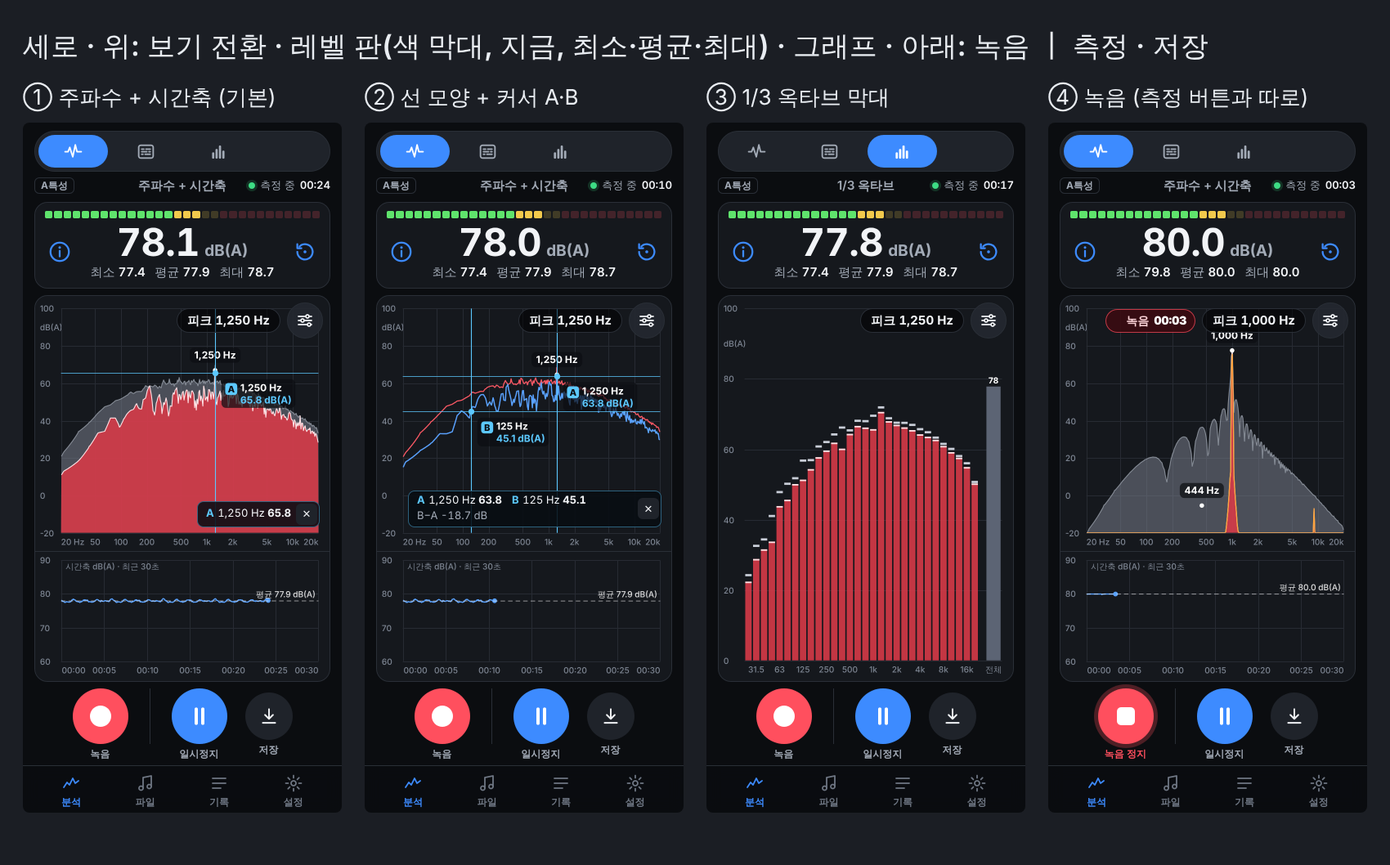
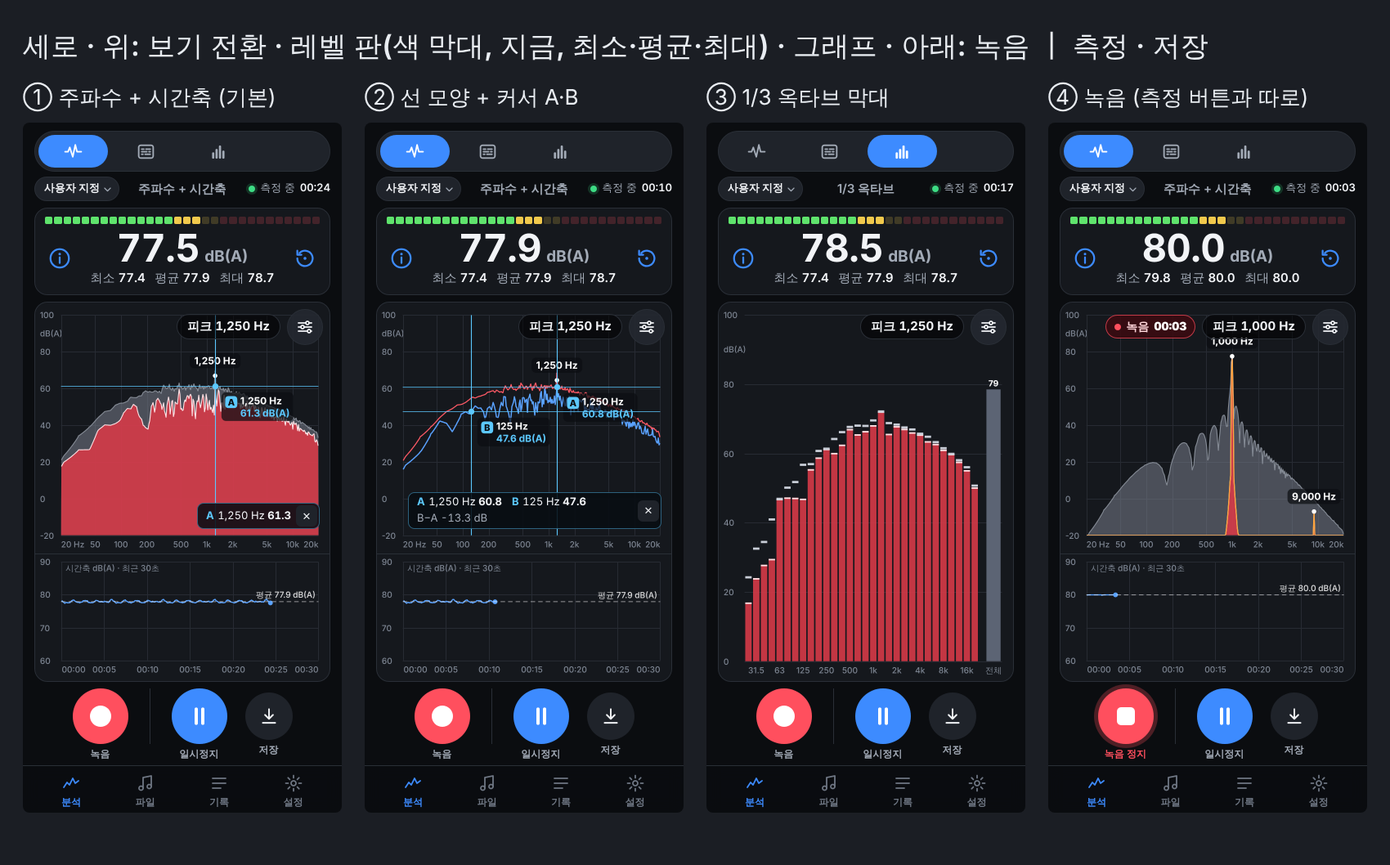
Add measurement situations: 공회전 / 주행 / 실내 / 사용자 지정
- A "측정 상황 ⌄" button (the reference app's "사용자 지정 ⌄") under the mode bar
  opens a menu of situations; one choice sets the weighting, FFT size, chart
  style, axis, the four tracking / hold curves and the time-axis length:
  공회전 (FFT 16384, line, peak + minimum hold, 1 min), 주행 (FFT 4096, fill,
  peak hold + max tracking, 5 min), 실내 (FFT 8192, line, minimum hold + min
  tracking, 1 min).
- 사용자 지정 is the user's own mix: kept when a situation is chosen and restored
  when 사용자 지정 is chosen again. Changing a setting by hand (chart menu,
  settings sheet, file screen) turns a chosen situation into 사용자 지정.
- presets.js holds the rules as pure functions (unit-tested); the analyzer now
  applies every settings change through one applyLive() path.
- The weighting chip is replaced by the situation button (the unit shows the
  weighting). e2e picks situations, changes one by hand and restores 사용자 지정.
  Version 0.9.0.

Claude-Session: https://claude.ai/code/session_019bnsVk5WHx5aXZAwj9JYTg

diff --git a/js/app.js b/js/app.js
@@ -2,6 +2,7 @@
 // #/ (real-time analyzer), #/file (analyse an attached file), #/history, #/record/<id>, #/settings
 
 import { APP_VERSION, getSettings, saveSettings, rememberVehicle } from './settings.js';
+import { PRESETS, CUSTOM, presetOf, choosePreset, customize } from './presets.js';
 import { Meter, FFT_SIZES, MAX_RECORD_SEC } from './meter.js';
 import { findPeaks, logGrid, rangeIndex, reduceRanges, unitOf, WEIGHTINGS, BANDS, bandIndex, bandLevels, newHolds, updateHolds } from './dsp.js';
 import * as store from './store.js';
@@ -30,6 +31,7 @@ const ICON = {
   mic: svg('<rect x="9" y="3" width="6" height="11" rx="3"/><path d="M5.5 11a6.5 6.5 0 0 0 13 0M12 17.5V21M8.5 21h7"/>'),
   file: svg('<path d="M9 18V5l10-2v13"/><circle cx="6.5" cy="18" r="2.5"/><circle cx="16.5" cy="16" r="2.5"/>'),
   info: svg('<circle cx="12" cy="12" r="9"/><path d="M12 11v5.5"/><circle class="fill" cx="12" cy="7.8" r="1.2"/>'),
+  chevron: svg('<path d="M7 10l5 5 5-5"/>'),
   sliders: svg('<path d="M4 7h9M17 7h3M4 12h3M11 12h9M4 17h11M19 17h1"/><circle cx="15" cy="7" r="2"/><circle cx="9" cy="12" r="2"/><circle cx="17" cy="17" r="2"/>'),
 };
 
@@ -98,11 +100,11 @@ function openSheet(html) {
 }
 
 // Small menu that drops from a button (like a phone's context menu). Tapping outside or Esc closes it.
-function openMenu(anchor, html, onClose = null) {
+function openMenu(anchor, html, onClose = null, className = '') {
   const layer = document.createElement('div');
   layer.className = 'menu-layer';
   const menu = document.createElement('div');
-  menu.className = 'menu';
+  menu.className = `menu ${className}`.trim();
   menu.setAttribute('role', 'menu');
   menu.innerHTML = html;
   document.body.append(layer, menu);
@@ -123,6 +125,11 @@ function openMenu(anchor, html, onClose = null) {
   layer.addEventListener('click', close); // the whole tap lands on the layer, not on what is under it
   anchor.setAttribute('aria-expanded', 'true');
   return { menu, close };
+}
+
+// A setting changed by hand: a chosen measurement situation (presets.js) becomes 사용자 지정.
+function changeSettings(patch) {
+  return saveSettings(customize(getSettings(), patch));
 }
 
 async function keepScreenOn() {
@@ -263,6 +270,7 @@ function helpSheet() {
     <div class="sheet-form help">
       <h2>화면 보는 법</h2>
       <dl class="meta">
+        <dt>측정 상황</dt><dd>왼쪽 위 버튼. <b>공회전</b>·<b>주행</b>·<b>실내</b>를 고르면 가중치·FFT·그래프 모양·추적·홀드·시간축 길이가 그 상황에 맞게 한 번에 바뀝니다. 그 뒤에 직접 바꾸면 <b>사용자 지정</b>이 되고, 사용자 지정을 다시 고르면 직접 맞춰 둔 설정으로 돌아옵니다.</dd>
         <dt>큰 숫자</dt><dd>지금 소음 크기입니다 (0.125초 Fast). 색 막대는 초록 → 노랑 → 빨강, 빨강은 경고 기준 ${s.alertLevel} dB 이상입니다. 밝은 칸 하나는 최대값입니다.</dd>
         <dt>최소·평균·최대</dt><dd>측정을 시작하거나 ↻ 초기화를 누른 뒤의 값입니다. 평균은 에너지 평균(Leq)입니다.</dd>
         <dt>A · C · Z</dt><dd>주파수 가중치. <b>A</b> 보통 소음(사람 귀에 가깝게) · <b>C</b> 엔진·부밍음처럼 저음이 큰 소리 · <b>Z</b> 거르지 않은 소리. 그래프 오른쪽 위 설정 버튼에서 바꿉니다.</dd>
@@ -288,7 +296,7 @@ async function renderAnalyzer() {
         ${MODES.map((m) => `<button type="button" class="mode" data-mode="${m.id}" aria-label="${m.label}" aria-pressed="${s.view === m.id}">${m.icon}</button>`).join('')}
       </div>
       <div class="an-sub">
-        <span class="an-weight" id="a-weight">${s.weighting}특성</span>
+        <button type="button" class="an-preset" id="a-preset" aria-haspopup="menu" aria-expanded="false" aria-label="측정 상황: ${presetOf(s.preset).name}"><span>${presetOf(s.preset).name}</span>${ICON.chevron}</button>
         <p class="an-mode-name" id="a-mode-name">${MODES.find((m) => m.id === s.view)?.name || ''}</p>
         <p class="an-status"><i class="rec-dot"></i><span id="a-state">대기</span><b id="a-time">00:00</b></p>
       </div>
@@ -665,26 +673,59 @@ async function renderAnalyzer() {
         <button type="button" class="btn btn-wide" data-close>닫기</button>
       </div>`);
     bindSegs(dlg, (key, v) => {
-      if (key === 'weighting') {
-        saveSettings({ weighting: v });
-        dlg.querySelector('#f-weight-note').textContent = WEIGHT_NOTE[v];
-        $('a-weight').textContent = `${v}특성`;
-        $('a-unit').textContent = unitOf(v);
-        gram.unit = unitOf(v);
-        if (meter) meter.setWeighting(v);
-        clearReadings();
-      } else if (key === 'trace') {
-        saveSettings({ traceSec: Number(v) });
-        trace.configure({ windowSec: Number(v) });
-        trace.draw();
-      } else if (key === 'fft') {
-        saveSettings({ fftSize: Number(v) });
-        applyFft();
-      } else {
-        saveSettings({ scale: v });
-        gram.configure({ scale: v });
-      }
-      if (meter?.paused && holds) draw(meter.levels);
+      change(key === 'weighting' ? { weighting: v } : key === 'trace' ? { traceSec: Number(v) } : key === 'fft' ? { fftSize: Number(v) } : { scale: v });
+      if (key === 'weighting') dlg.querySelector('#f-weight-note').textContent = WEIGHT_NOTE[v];
+    });
+  }
+
+  // Settings changed (by hand, from a menu, or by a measurement situation): the live view follows.
+  function applyLive(prev) {
+    const st = getSettings();
+    if (st.weighting !== prev.weighting) {
+      $('a-unit').textContent = unitOf(st.weighting);
+      gram.unit = unitOf(st.weighting);
+      if (meter) meter.setWeighting(st.weighting);
+      clearReadings();
+    }
+    if (st.fftSize !== prev.fftSize) applyFft();
+    if (st.scale !== prev.scale) gram.configure({ scale: st.scale });
+    if (st.traceSec !== prev.traceSec) {
+      trace.configure({ windowSec: st.traceSec || 30 });
+      trace.draw();
+    }
+    const p = presetOf(st.preset);
+    $('a-preset').firstElementChild.textContent = p.name;
+    $('a-preset').setAttribute('aria-label', `측정 상황: ${p.name}`);
+    if (meter?.paused && holds) draw(meter.levels);
+  }
+
+  function change(patch) {
+    const prev = getSettings();
+    changeSettings(patch);
+    applyLive(prev);
+  }
+
+  // "측정 상황" (the reference app's "사용자 지정 ⌄"): one choice sets several settings at once.
+  function presetMenu() {
+    if (menu) return menu.close();
+    const st = getSettings();
+    menu = openMenu(
+      $('a-preset'),
+      `<div class="menu-group"><p class="menu-head">측정 상황</p>
+        ${[...PRESETS, CUSTOM].map((p) => `<button type="button" role="menuitemradio" aria-checked="${st.preset === p.id}" data-preset="${p.id}"><span class="mi-text">${p.name}<small>${p.note}</small></span></button>`).join('')}
+      </div>
+      <p class="menu-foot">고른 뒤에 설정을 직접 바꾸면 '사용자 지정'이 됩니다.</p>`,
+      () => (menu = null),
+      'menu-preset',
+    );
+    menu.menu.addEventListener('click', (e) => {
+      const b = e.target.closest('[data-preset]');
+      if (!b) return;
+      const prev = getSettings();
+      saveSettings(choosePreset(prev, b.dataset.preset));
+      menu.close();
+      applyLive(prev);
+      toast(`측정 상황: ${presetOf(b.dataset.preset).name}`);
     });
   }
 
@@ -709,12 +750,12 @@ async function renderAnalyzer() {
           <button type="button" role="menuitem" data-act="more">${ICON.sliders}가중치 · 시간축 · FFT · 축</button>
         </div>`;
     };
-    menu = openMenu(anchor, html(), () => (menu = null));
+    menu = openMenu(anchor, html(), () => (menu = null), 'menu-chart');
     menu.menu.addEventListener('click', (e) => {
       const b = e.target.closest('button');
       if (!b) return;
-      if (b.dataset.style) saveSettings({ style: b.dataset.style });
-      else if (b.dataset.toggle) saveSettings({ [b.dataset.toggle]: !getSettings()[b.dataset.toggle] });
+      if (b.dataset.style) change({ style: b.dataset.style });
+      else if (b.dataset.toggle) change({ [b.dataset.toggle]: !getSettings()[b.dataset.toggle] });
       else if (b.dataset.act === 'hold-reset') {
         resetHolds();
         menu.close();
@@ -771,6 +812,7 @@ async function renderAnalyzer() {
   };
   view.querySelector('[data-act=help]').onclick = helpSheet;
   view.querySelector('[data-act=chart-settings]').onclick = chartMenu;
+  $('a-preset').onclick = presetMenu;
   view.querySelectorAll('.mode').forEach((b) => (b.onclick = () => setMode(b.dataset.mode)));
 
   if ((await micPermission()) === 'granted') startMic();
@@ -957,18 +999,18 @@ async function renderFile() {
         const st2 = getSettings();
         if (b.dataset.opt === 'unit' || b.dataset.opt === 'weighting') {
           if (b.dataset.opt === 'unit') saveSettings({ fileUnit: st2.fileUnit === 'fs' ? 'cal' : 'fs' });
-          else saveSettings({ weighting: WEIGHTINGS[(WEIGHTINGS.indexOf(st2.weighting) + 1) % WEIGHTINGS.length] });
+          else changeSettings({ weighting: WEIGHTINGS[(WEIGHTINGS.indexOf(st2.weighting) + 1) % WEIGHTINGS.length] });
           teardown?.();
           teardown = await showAnalysis(file, decoded);
           return;
         }
         if (b.dataset.opt === 'style') {
           const style = STYLE_ORDER[(STYLE_ORDER.indexOf(st2.style) + 1) % STYLE_ORDER.length];
-          saveSettings({ style });
+          changeSettings({ style });
           b.querySelector('b').textContent = STYLE_NAME[style];
         } else {
           const scale = st2.scale === 'log' ? 'linear' : 'log';
-          saveSettings({ scale });
+          changeSettings({ scale });
           b.querySelector('b').textContent = scale === 'log' ? '로그' : '선형';
           gram.configure({ scale });
         }

diff --git a/css/app.css b/css/app.css
@@ -111,7 +111,10 @@ body[data-view="home"] main { flex: 1 1 auto; min-height: 0; display: flex; padd
 .mode[aria-pressed="true"] { background: var(--accent); color: var(--accent-ink); }
 
 .an-sub { grid-area: sub; display: grid; grid-template-columns: minmax(0, 1fr) auto minmax(0, 1fr); align-items: center; gap: 8px; margin-top: -2px; }
-.an-weight { justify-self: start; padding: 0 7px; border: 1px solid var(--line); border-radius: 6px; font-size: 12px; font-weight: 700; color: var(--ink-2); }
+.an-preset { justify-self: start; display: inline-flex; align-items: center; gap: 1px; min-width: 0; min-height: 30px; padding: 0 5px 0 11px; border: 1px solid var(--line); border-radius: 999px; background: var(--panel-2); color: var(--ink); font: inherit; font-size: 13px; font-weight: 700; white-space: nowrap; cursor: pointer; }
+.an-preset span { overflow: hidden; text-overflow: ellipsis; }
+.an-preset svg { flex-shrink: 0; width: 17px; height: 17px; color: var(--ink-2); }
+.an-preset[aria-expanded="true"] { border-color: var(--accent); }
 .an-mode-name { font-size: 15px; font-weight: 600; color: var(--ink-2); text-align: center; }
 .an-status { justify-self: end; display: flex; align-items: center; gap: 6px; font-size: 13px; color: var(--ink-2); white-space: nowrap; }
 .an-status b { font-weight: 600; color: var(--ink); font-variant-numeric: tabular-nums; }
@@ -286,7 +289,8 @@ body[data-view="home"] main { flex: 1 1 auto; min-height: 0; display: flex; padd
   .mode { height: 38px; }
   .mode svg { width: 23px; height: 23px; }
   /* the status line sits in the top row of the floating level panel */
-  .an-sub { grid-area: chart; align-self: start; justify-self: start; z-index: 5; display: flex; gap: 10px; margin: 15px 0 0 54px; pointer-events: none; }
+  .an-sub { grid-area: chart; align-self: start; justify-self: start; z-index: 5; display: flex; align-items: center; gap: 10px; margin: 13px 0 0 52px; pointer-events: none; }
+  .an-preset { pointer-events: auto; min-height: 28px; }
   .an-mode-name { display: none; }
   .an-level {
     grid-area: chart;
@@ -295,7 +299,7 @@ body[data-view="home"] main { flex: 1 1 auto; min-height: 0; display: flex; padd
     z-index: 4;
     width: clamp(290px, 44%, 330px);
     margin: 8px 0 0 40px;
-    padding: 34px 4px 6px;
+    padding: 40px 4px 6px;
     grid-template-columns: 38px minmax(0, 1fr) 38px;
     column-gap: 2px;
     background: rgb(21 24 29 / 82%);
@@ -686,10 +690,14 @@ select {
 .menu button .sw { margin-left: auto; }
 .menu [role="menuitem"] svg { position: absolute; left: 13px; width: 21px; height: 21px; color: var(--accent); }
 /* phone on its side: styles and curves side by side */
+/* measurement situations: name with a short line about what it sets */
+.mi-text { display: grid; gap: 1px; padding: 7px 0; }
+.mi-text small { max-width: 270px; font-size: 12px; font-weight: 500; line-height: 1.35; color: var(--ink-3); white-space: normal; }
+.menu-foot { margin-top: 6px; padding: 8px 16px 4px; border-top: 1px solid var(--line); font-size: 12px; color: var(--ink-3); max-width: 330px; }
 @media (orientation: landscape) and (max-height: 520px) {
-  .menu { display: grid; grid-template-columns: auto auto; }
-  .menu-group + .menu-group { border-top: 0; margin-top: 0; padding-top: 0; }
-  .menu-group:nth-child(2) { border-left: 1px solid var(--line); }
+  .menu-chart { display: grid; grid-template-columns: auto auto; }
+  .menu-chart .menu-group + .menu-group { border-top: 0; margin-top: 0; padding-top: 0; }
+  .menu-chart .menu-group:nth-child(2) { border-left: 1px solid var(--line); }
   .menu-wide { grid-column: 1 / -1; display: grid; grid-template-columns: 1fr 1fr; border-top: 1px solid var(--line); margin-top: 6px; padding-top: 6px; }
   .menu button { min-height: 40px; }
 }

diff --git a/js/presets.js b/js/presets.js
@@ -1,0 +1,48 @@
+// Measurement situations ("측정 상황"): one choice sets the weighting, FFT size, chart style, curves and
+// time-axis length together. "사용자 지정" keeps the user's own mix: it is remembered when another
+// situation is chosen and comes back when 사용자 지정 is chosen again. Changing any of these settings by
+// hand while a situation is chosen turns it into 사용자 지정. Pure functions over a settings object.
+
+export const PRESET_KEYS = ['weighting', 'fftSize', 'style', 'scale', 'peakHold', 'minHold', 'maxTrack', 'minTrack', 'traceSec'];
+
+export const PRESETS = [
+  {
+    id: 'idle',
+    name: '공회전',
+    note: '세워 두고 엔진 저음을 자세히 · FFT 16384 · 선 · 피크·미니멈 홀드',
+    values: { weighting: 'A', fftSize: 16384, style: 'line', scale: 'log', peakHold: true, minHold: true, maxTrack: false, minTrack: false, traceSec: 60 },
+  },
+  {
+    id: 'drive',
+    name: '주행',
+    note: '달리면서 빠르게 · FFT 4096 · 최대값 추적 · 시간축 5분',
+    values: { weighting: 'A', fftSize: 4096, style: 'fill', scale: 'log', peakHold: true, minHold: false, maxTrack: true, minTrack: false, traceSec: 300 },
+  },
+  {
+    id: 'indoor',
+    name: '실내',
+    note: '조용한 곳의 바닥 소음 · FFT 8192 · 미니멈 홀드·최소값 추적',
+    values: { weighting: 'A', fftSize: 8192, style: 'line', scale: 'log', peakHold: true, minHold: true, maxTrack: false, minTrack: true, traceSec: 60 },
+  },
+];
+
+export const CUSTOM = { id: 'custom', name: '사용자 지정', note: '직접 고른 설정 그대로' };
+
+export const presetOf = (id) => PRESETS.find((p) => p.id === id) || CUSTOM;
+
+const pick = (st) => Object.fromEntries(PRESET_KEYS.map((k) => [k, st[k]]));
+
+// Settings patch for choosing situation `id`.
+export function choosePreset(st, id) {
+  const patch = { preset: id };
+  if (st.preset === 'custom' || !st.preset) patch.custom = pick(st); // leaving 사용자 지정: remember it
+  if (id === 'custom') Object.assign(patch, (st.preset === 'custom' ? null : st.custom) || {});
+  else Object.assign(patch, presetOf(id).values);
+  return patch;
+}
+
+// Patch for a change made by hand: a chosen situation becomes 사용자 지정 if a situation setting changes.
+export function customize(st, patch) {
+  const changes = PRESET_KEYS.some((k) => k in patch && patch[k] !== st[k]);
+  return changes && st.preset !== 'custom' ? { ...patch, preset: 'custom' } : patch;
+}

diff --git a/js/settings.js b/js/settings.js
@@ -1,6 +1,6 @@
 // Per-device settings (kept in localStorage).
 
-export const APP_VERSION = '0.8.0';
+export const APP_VERSION = '0.9.0';
 
 const KEY = 'noise-meter:settings:v1';
 
@@ -15,6 +15,8 @@ const DEFAULTS = {
   style: 'fill', // 'fill' | 'line' | 'bar'
   fftSize: 4096,
   scale: 'log',
+  preset: 'custom', // measurement situation (presets.js): 'idle' | 'drive' | 'indoor' | 'custom'
+  custom: null, // the user's own mix, kept while a situation is chosen
   // curves over the spectrum
   peakHold: true, // maximum since reset
   minHold: false, // minimum since reset

diff --git a/sw.js b/sw.js
@@ -1,6 +1,6 @@
 // Offline support: the app shell is cached so measuring works without signal.
 // Bump VERSION whenever any cached file changes so phones pick up the update.
-const VERSION = 'v0.8.0';
+const VERSION = 'v0.9.0';
 const CACHE = `noise-meter-${VERSION}`;
 const FILES = [
   './',
@@ -16,6 +16,7 @@ const FILES = [
   'js/level-processor.js',
   'js/meter.js',
   'js/octave.js',
+  'js/presets.js',
   'js/settings.js',
   'js/share.js',
   'js/spectrogram.js',

diff --git a/CLAUDE.md b/CLAUDE.md
@@ -4,7 +4,7 @@ This file provides guidance to Claude Code (and other AI assistants) when workin
 
 ## Project Overview
 
-A company-internal real-time noise analyzer web app (PWA) for field use, referencing common analyzer apps but with its own features. It opens on a live FFT spectrum (x: 20 Hz – 20 kHz, y: weighted dB per bin, A by default) under a level panel (LED bar, big current value, min / average / max, help and reset buttons), in portrait and landscape layouts. The main view is two graphs, as the user specified: the frequency graph (spectrum) on top and a smaller time-axis graph (live level over time) below; the spectrogram and 1/3-octave bars are separate views in the mode bar (the needle gauge and a spectrum + spectrogram view were dropped at the user's request). The chart button opens a menu like the reference app's: chart style (fill / line / bar), max tracking, min tracking, peak hold, minimum hold, hold reset, and a last item that opens the sheet for A/C/Z weighting, time-axis length (30 s / 1 min / 5 min), FFT size and axis. Own features: crosshair A/B cursors, a red record button kept separate from start/pause (record until stop; the recording goes to the file analysis, opened from a toast), attached-file analysis, and "save" that keeps the last N seconds of sound (rolling buffer) with the snapshot for playback and WAV sharing. Snapshots also carry vehicle number and memo, share as image + text, and export as CSV. There is no report feature (the user asked to drop it). UI text is Korean.
+A company-internal real-time noise analyzer web app (PWA) for field use, referencing common analyzer apps but with its own features. It opens on a live FFT spectrum (x: 20 Hz – 20 kHz, y: weighted dB per bin, A by default) under a level panel (LED bar, big current value, min / average / max, help and reset buttons), in portrait and landscape layouts. The main view is two graphs, as the user specified: the frequency graph (spectrum) on top and a smaller time-axis graph (live level over time) below; the spectrogram and 1/3-octave bars are separate views in the mode bar (the needle gauge and a spectrum + spectrogram view were dropped at the user's request). A "측정 상황" button (the reference app's "사용자 지정 ⌄") picks a situation preset — 공회전 / 주행 / 실내 / 사용자 지정 — that sets several settings at once. The chart button opens a menu like the reference app's: chart style (fill / line / bar), max tracking, min tracking, peak hold, minimum hold, hold reset, and a last item that opens the sheet for A/C/Z weighting, time-axis length (30 s / 1 min / 5 min), FFT size and axis. Own features: crosshair A/B cursors, a red record button kept separate from start/pause (record until stop; the recording goes to the file analysis, opened from a toast), attached-file analysis, and "save" that keeps the last N seconds of sound (rolling buffer) with the snapshot for playback and WAV sharing. Snapshots also carry vehicle number and memo, share as image + text, and export as CSV. There is no report feature (the user asked to drop it). UI text is Korean.
 
 - **Language / runtime:** Vanilla JavaScript ES modules in the browser; Node 22 for tests
 - **Framework(s):** None. Web Audio (AudioWorklet + AnalyserNode), Canvas, IndexedDB, Service Worker
@@ -26,6 +26,7 @@ js/timeline.js              TimelineView: a recording's Fast level over time wit
 js/levelbar.js              LevelBar: LED segments 30–120 dB, green/yellow/red by alert level, held max
 js/dsp.js                   Pure DSP (A/C/Z weighting curves and filter design, binLevelTable/binLevels, BANDS/bandIndex/bandLevels, findPeaks, rangeIndex/reduceRanges, logGrid, fft/stft)
 js/settings.js              localStorage settings (display options, calibration offset, alert level, PIN)
+js/presets.js               Measurement situations: PRESETS, choosePreset(), customize() (pure, unit-tested)
 js/store.js                 IndexedDB records (saved snapshots)
 js/share.js                 Share card (canvas PNG), summary text, CSV, share/download helper
 js/format.js                Korean labels and number/date formatting
@@ -50,8 +51,9 @@ No build step. After changing any cached file, bump `VERSION` in `sw.js` (and ad
 - **Measurement chain:** levels come from the worklet (every sample), never from analyser frames. dB SPL = dBFS + per-device `offset` (calibration). The first 0.5 s after start/reset/weighting change is discarded. Calibration always measures with A weighting.
 - **Weighting:** `settings.weighting` ('A' | 'C' | 'Z') applies to the worklet filter, the per-bin spectrum table and file/record analysis alike; units come from `unitOf()` (dB(A), dB(C), dB(Z), dBFS(A) ...). Records store `weighting` and `unit`; old records without them are A.
 - **Spectrum values:** per-bin dB = analyser dB + 10·log10(2/Blackman power) + W(f) + offset, so bins sum to the overall level. Peak labels come from a ~1 s averaged spectrum (steady), not the raw frame. 1/3-octave bands are energy sums of those bins; the octave view runs the analyser at 16384 so every band has bins.
-- **Layouts:** portrait = mode bar, sub row (weighting, mode name, status), level panel, chart (fills spare height, peak pill + settings button top right), round buttons with captions in two groups (record | start/pause, save); in the main view the time-axis graph always takes the lower third of the chart, below a divider; landscape (>= 600px wide) = chart full screen with the level panel (status in its top row) floating top left, and one bottom row of buttons, mode bar and nav; the tab bar hides on the analyzer in landscape.
+- **Layouts:** portrait = mode bar, sub row (측정 상황 button, mode name, status), level panel, chart (fills spare height, peak pill + settings button top right), round buttons with captions in two groups (record | start/pause, save); in the main view the time-axis graph always takes the lower third of the chart, below a divider; landscape (>= 600px wide) = chart full screen with the level panel (status in its top row) floating top left, and one bottom row of buttons, mode bar and nav; the tab bar hides on the analyzer in landscape.
 - **Holds:** `newHolds()/updateHolds()` in dsp.js keep per-bin peak hold, minimum hold and max/min tracking (12 dB/s back towards the current level). They start after the meter's 0.5 s warm-up (and 0.4 s after an FFT size change) so start-up silence never becomes the minimum. Settings `peakHold`, `minHold`, `maxTrack`, `minTrack` (old `hold` migrates to `peakHold`); "홀드 재설정" clears only these. Snapshots store `spectrum.min` when minimum hold is on; file analysis has `min` (quietest frame per point).
+- **Measurement situations:** a preset sets `PRESET_KEYS` (weighting, FFT, style, axis, the four curves, time-axis length), never the view or calibration. `settings.preset` is the chosen id; leaving 사용자 지정 stores its values in `settings.custom`, choosing it again restores them. Every change by hand goes through `changeSettings()` (app.js), which turns a chosen preset into 사용자 지정; the analyzer applies any settings change through `applyLive(prev)`.
 - **Level trace:** pushed from `onLevel` only when the meter's measured sample count grows (not while warming up or paused), one value per 50 ms worklet block; time labels are measuring time; cleared on reset/weighting change.
 - **Recording is separate from measuring (start/pause):** the record button never resumes a paused measurement (it only starts the mic if it is off), pausing does not stop the worklet's recording (only the display and the "save" ring buffer hold still), and stopping keeps measuring on the analyzer. Raw PCM from the worklet, at most 5 min (`MAX_RECORD_SEC`, the file analysis limit); on stop it becomes a WAV `File` in `openedFile` and a toast offers "분석 보기" (#/file). Leaving the screen mid-recording keeps what was recorded there. The recording has its own clock (`#a-rec-time` in the red badge on the chart); the status clock always shows measuring time.
 - **Frequency axis** is always 20 Hz – 20 kHz (log) / 0 – 20 kHz (linear); the spectrogram uses the same plotBox so columns line up with the spectrum.
